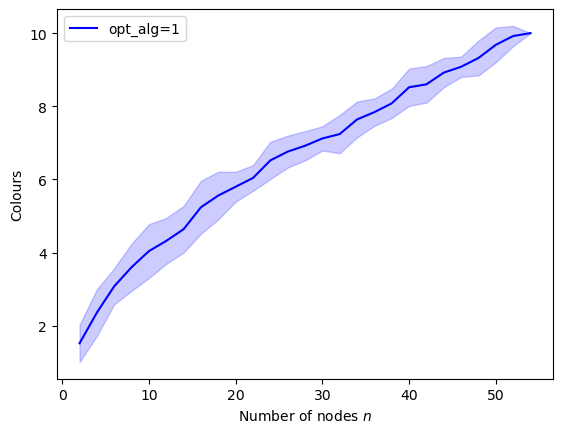
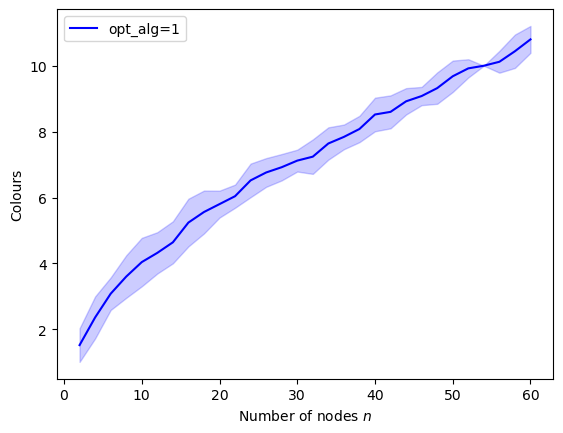
v 2.2

diff --git a/docs/performance/Performance.rst b/docs/performance/Performance.rst
@@ -138,7 +138,7 @@ Optimization Output
 
 The following code demonstrates how the ``verbose`` parameter can be
 used to produce run-time output for the various optimization algorithms.
-This allows us to assess algorithm performance.
+This allows us to monitor algorithm performance during execution.
 
 .. code:: ipython3
 
@@ -320,8 +320,8 @@ permanently assigned to different colors. The main backtracking
 algorithm is then executed and only halts only when a solution using
 :math:`C` colors has been identified, or when the algorithm has
 backtracked to the root of the search tree. In both cases the returned
-solution will be optimal (that is, will be using the minimum number of
-colors).
+solution will be optimal (that is, it will be using the minimum number
+of colors).
 
 The following code evaluates the performance of this algorithm on
 :math:`G(n,0.5)` graphs for a range of :math:`n`-values.
@@ -329,7 +329,7 @@ The following code evaluates the performance of this algorithm on
 .. code:: ipython3
 
     results = []
-    nVals = range(2,55,2)
+    nVals = range(2,61,2)
     for n in nVals:
         for seed in range(25):
             G = nx.gnp_random_graph(n, 0.5, seed)
@@ -354,7 +354,7 @@ The following code evaluates the performance of this algorithm on
     plt.plot(nVals, mean1, linestyle='-', linewidth=1.5, color="b", label='opt_alg=1')
     plt.fill_between(nVals, mean1-SD1, mean1+SD1, color='b', alpha=0.2)
     plt.xlabel("Number of nodes $n$")
-    plt.ylim((0, 600))
+    plt.ylim((0, 120))
     plt.ylabel("Run time (s)")
     plt.legend()
     plt.show()
@@ -373,7 +373,7 @@ The first chart above shows the chromatic numbers from a sample of
 can be seen that the chromatic number rises in a close-to-linear fashion
 in relation to :math:`n`. The second figure demonstrates the
 disadvantages of using this exponential-time algorithm: once :math:`n`
-is increased beyond a moderately small value (approximately 50 here),
+is increased beyond a moderately small value (approximately 55 here),
 run times become unpredictable and often very long. Note, however, that
 the specific :math:`n`-values that give these long run times can vary
 considerably depending on the topology of the graph. For example, planar
@@ -400,7 +400,7 @@ information on these can be found in the library’s
 `documentation <https://gcol.readthedocs.io/en/latest/modules.html>`__
 and in this
 `book <https://link.springer.com/book/10.1007/978-3-030-81054-2>`__.
-Executing these heuristics with higher iteration limits usually gives
+Executing these heuristics with higher iteration limits usually leads to
 better solutions (that is, solutions using fewer colors). To illustrate,
 the following code runs the four optimization algorithms with differing
 iteration limits on a set of twenty :math:`G(500, 0.5)` graphs.
@@ -470,17 +470,17 @@ iteration limits on a set of twenty :math:`G(500, 0.5)` graphs.
 Note that the charts above use log scales on their horizontal axes. The
 first chart shows how using an increased iteration limit can result in
 solutions that have fewer colors. For very high limits, the hybrid
-evolutionary algorithms are clearly more favourable. The second chart
+evolutionary algorithms are clearly more favorable. The second chart
 shows how the iteration limits affect run times with these graphs.
 
 Equitable Coloring
 ------------------
 
-In the equitable node-coloring problem, we are interested in coloring
-the nodes with a user-defined number of colors :math:`k` so that (a)
-adjacent nodes have different colors, and (b) the number of nodes in
-each color is as equal as possible. The following trials run the
-``gcol.equitable_node_k_coloring()`` method on a sample of random
+In the (unweighted) equitable node-coloring problem, we are interested
+in coloring the nodes with a user-defined number of colors :math:`k` so
+that (a) adjacent nodes have different colors, and (b) the number of
+nodes in each color is as equal as possible. The following trials run
+the ``gcol.equitable_node_k_coloring()`` method on a sample of random
 :math:`G(500,0.5)` graphs over a range of suitable :math:`k`-values. The
 reported cost is simply the difference in size between the largest and
 smallest color classes in a solution. Hence, if :math:`k` is a divisor
@@ -621,6 +621,6 @@ iteration limit of :math:`n` for the former.
 
 The results above show quite clearly that the
 ``gcol.max_independent_set()`` routine produces better quality solutions
-(larger independent sets) in less run time. As before, further
-improvements in solution quality (but longer run times) may also be
-found by increasing the ``it_limit`` parameter.
+(larger independent sets) in less time. As before, further improvements
+in solution quality (but longer run times) may also be found by
+increasing the ``it_limit`` parameter.
